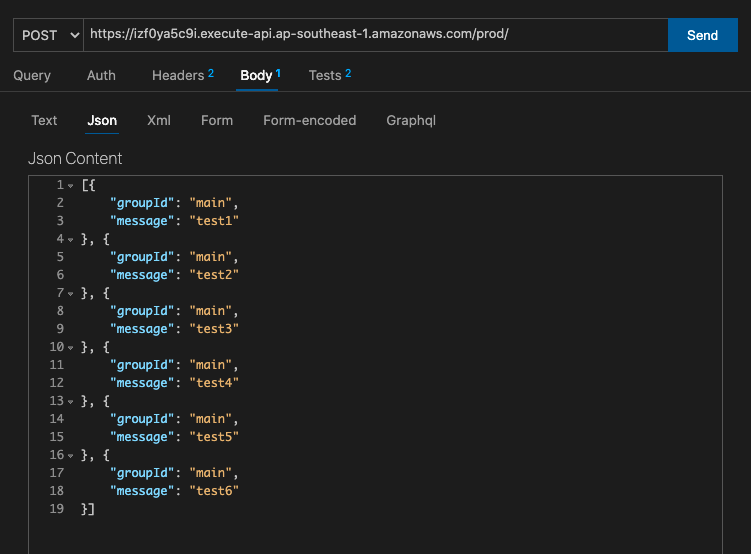
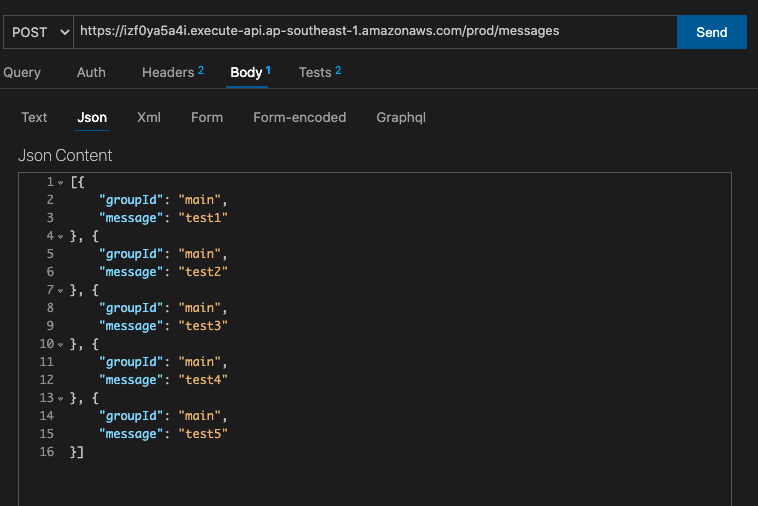
update demo images

diff --git a/_posts/2021-5-16-sqs-fifo-lambda.md b/_posts/2021-5-16-sqs-fifo-lambda.md
@@ -188,7 +188,8 @@ Since we provisioned a POST API `/messages` to publishing the messages to the qu
 For example, I use [Thunder client](https://marketplace.visualstudio.com/items?itemName=rangav.vscode-thunder-client) to make an HTTP request with a JSON body like this
 ![test example](/assets/images/cdk-test-publish-messages.png)
 
-You can check the logs and metrics for SNS and SQS on CloudWatch in the AWS console to check the results of the publishing and processing of the messages.
+You can check the logs and metrics for SNS and SQS on CloudWatch in the AWS console to check the results of the publishing and processing of the messages. If all works correctly, you should be able to see that the messages are processed one by one in sequences in the correct order from the Cloudwatch logs of the Lambda function that process the messages.
+![messages logs](/assets/images/messages-logs.png)
 
 ## Source code of this example
 [https://github.com/singmak/my-ordered-message-process-service](https://github.com/singmak/my-ordered-message-process-service)
